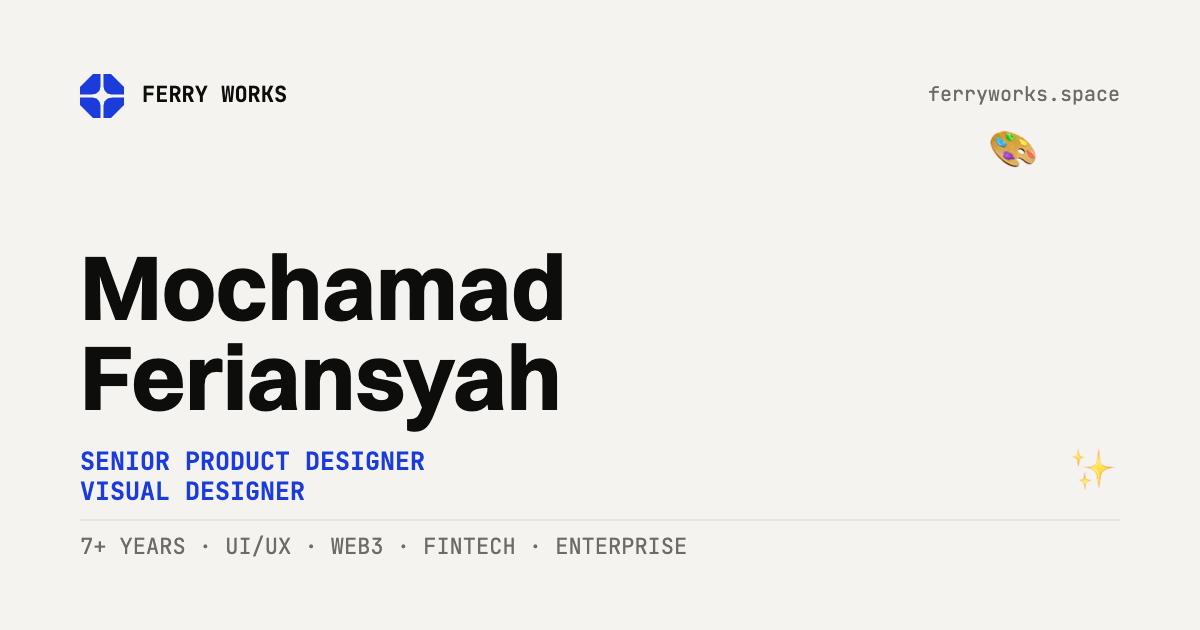
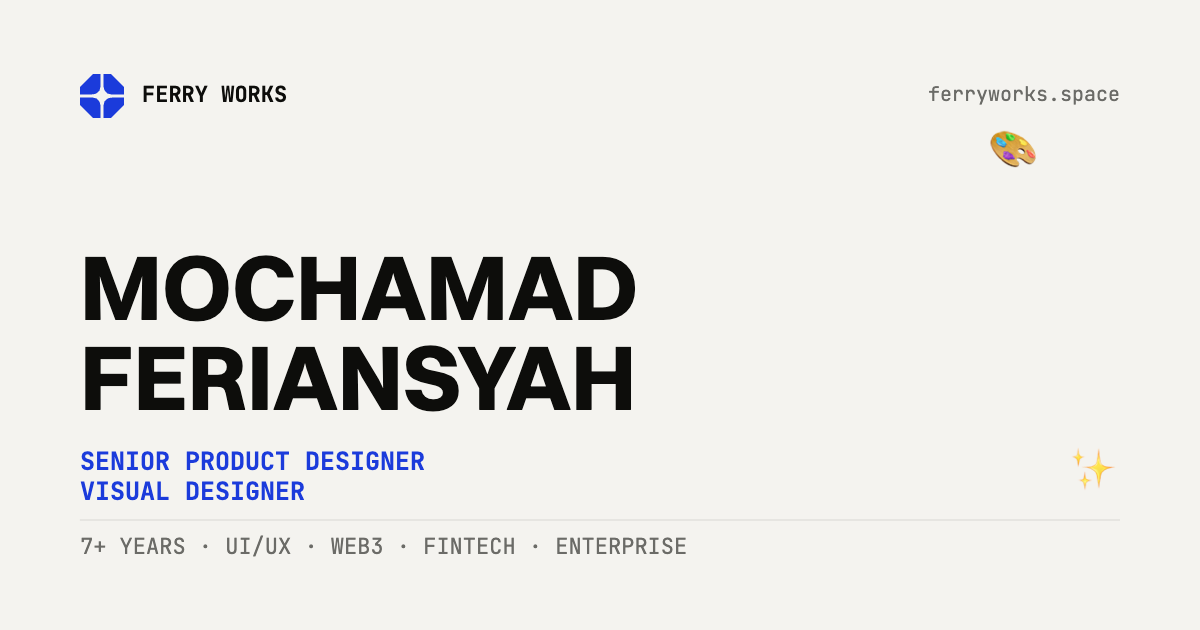
Fix 404 on Investment App Reimagined case study, caps OG headline
- New components/cases/InvestmentAppReimagined.tsx, registered in
  CASE_PAGES. content/*.json already had full data for this case
  and the static preview generator already worked, but no React
  component existed, so the Next.js route 404'd via the page's
  own notFound() guard. Modeled on NanovestInvestmentApp (identical
  data shape) with Amazon's flat gallery pattern (4 screens, no
  4+4 split).
- public/og-image.png: name headline set to all caps per request.

Changed region(s): [[0.0925, 0.5429, 0.5242, 0.6937], [0.1233, 0.3921, 0.555, 0.5127]]

diff --git a/components/cases/InvestmentAppReimagined.tsx b/components/cases/InvestmentAppReimagined.tsx
@@ -1,0 +1,309 @@
+import type { CSSProperties } from "react";
+import { Arrow } from "../Arrow";
+import { Words } from "../Words";
+import type { Cases } from "@/lib/dict";
+import type { CaseProps } from "./types";
+
+/**
+ * Case study: Investment App Reimagined (studi konsep, bukan klien).
+ *
+ * Susunan section-nya diturunkan dari NanovestInvestmentApp — bentuk
+ * data-nya identik persis — minus section "mockup" komposit, sama
+ * seperti Amazon: case ini cuma punya satu cover + empat tangkapan
+ * layar utuh, jadi galerinya satu grid rata (bukan split 4+4).
+ *
+ * Pasangannya di preview statis adalah
+ * scripts/case_investment_app_reimagined.py.
+ */
+
+function Media({
+  img,
+  ar,
+  alt = "",
+  eager = false,
+}: {
+  img: string;
+  ar: number;
+  alt?: string;
+  eager?: boolean;
+}) {
+  return (
+    <div className="case-media case-media--phone" style={{ "--ar": ar } as CSSProperties}>
+      <img src={img} alt={alt} loading={eager ? "eager" : "lazy"} decoding="async" />
+    </div>
+  );
+}
+
+function Figure({
+  img,
+  ar,
+  cap,
+  alt = "",
+  extra = "",
+  eager = false,
+}: {
+  img: string;
+  ar: number;
+  cap?: string;
+  alt?: string;
+  extra?: string;
+  eager?: boolean;
+}) {
+  return (
+    <figure className={`case-fig reveal ${extra}`.trim()}>
+      <Media img={img} ar={ar} alt={alt} eager={eager} />
+      {cap ? <figcaption className="t-meta case-cap">{cap}</figcaption> : null}
+    </figure>
+  );
+}
+
+export default function InvestmentAppReimagined({
+  dict,
+  lang,
+  data,
+}: CaseProps<Cases["investment-app-reimagined"]>) {
+  const home = `/${lang}`;
+
+  return (
+    <>
+      <section className="case-hero" id="top">
+        <div className="case-hero-deco" aria-hidden="true">
+          <div className="case-hero-deco-blob" />
+        </div>
+        <div className="case-hero-head reveal">
+          <div className="case-back">
+            <a className="pill t-eyebrow" href={`${home}#work`}>
+              {data.back}
+              <Arrow />
+            </a>
+            <span className="t-eyebrow case-eyebrow">{data.eyebrow}</span>
+          </div>
+          <h1 className="t-case-title case-title">
+            <Words text={data.title} />
+          </h1>
+          <p className="t-detail-b case-lead">{data.lead}</p>
+
+          {/* href kosong tidak dirender: tautan mati lebih buruk
+              daripada tautan yang belum ada. */}
+          {data.site.href ? (
+            <a
+              className="pill pill--lg t-eyebrow"
+              href={data.site.href}
+              target="_blank"
+              rel="noopener noreferrer"
+            >
+              {data.site.label}
+              <Arrow />
+            </a>
+          ) : null}
+        </div>
+
+        <dl className="case-facts reveal">
+          {data.facts.map((f) => (
+            <div className="case-fact" key={f.k}>
+              <dt className="t-eyebrow">{f.k}</dt>
+              <dd className="t-meta">{f.v}</dd>
+            </div>
+          ))}
+        </dl>
+
+        <Figure
+          img={data.cover.img}
+          ar={data.cover.ar}
+          cap={data.cover.caption}
+          alt={data.cover.alt}
+          extra="case-fig--shot"
+          eager
+        />
+      </section>
+
+      <section className="section section--divided tagline-section">
+        <div className="tagline-grid reveal" data-stagger="18">
+          <div>
+            <p className="t-label">{data.overview.label}</p>
+            <p className="t-meta" style={{ color: "var(--ink-muted)", marginTop: 8 }}>
+              {data.overview.meta}
+            </p>
+          </div>
+          <p className="t-tagline tagline">
+            <Words text={data.overview.text} />
+          </p>
+        </div>
+      </section>
+
+      <section className="section section--divided">
+        <div className="section-head reveal">
+          <h2 className="t-label">{data.scope.label}</h2>
+          <p className="t-meta">{data.scope.meta}</p>
+        </div>
+        <ol className="case-scope reveal">
+          {data.scope.items.map((s, i) => (
+            <li className="case-scope-item" key={s}>
+              <span className="case-scope-num t-eyebrow">
+                {String(i + 1).padStart(2, "0")}
+              </span>
+              <span className="case-scope-label">{s}</span>
+            </li>
+          ))}
+        </ol>
+      </section>
+
+      {data.blocks.map((b) => (
+        <section className="section section--divided" key={b.label}>
+          <div className="case-note reveal">
+            <div className="case-note-side">
+              <h2 className="t-label">{b.label}</h2>
+              <p className="t-meta" style={{ color: "var(--ink-muted)", marginTop: 8 }}>
+                {b.meta}
+              </p>
+            </div>
+            <div className="case-note-body">
+              <h3 className="t-detail-h case-note-h">{b.heading}</h3>
+              {b.body.map((p) => (
+                <p className="case-p" key={p.slice(0, 32)}>
+                  {p}
+                </p>
+              ))}
+            </div>
+          </div>
+        </section>
+      ))}
+
+      <section className="section section--divided">
+        <div className="section-head reveal">
+          <h2 className="t-label">{data.gallery.label}</h2>
+          <p className="t-meta">{data.gallery.meta}</p>
+        </div>
+        <div className="case-gallery case-gallery--phones">
+          {data.gallery.items.map((g) => (
+            <Figure key={g.img} img={g.img} ar={g.ar} cap={g.cap} alt={data.title} />
+          ))}
+        </div>
+      </section>
+
+      {/* Tidak ada rekaman untuk case ini, jadi section-nya dilewatkan
+          sama sekali daripada tampil sebagai placeholder kosong — sama
+          seperti case Amazon. Isi `video.src` di content/*.json begitu
+          rekamannya ada, section ini muncul kembali otomatis. */}
+      {data.video.src ? (
+        <section className="section section--divided case-video" aria-labelledby="case-video-label">
+          <div className="section-head reveal">
+            <h2 className="t-label" id="case-video-label">
+              {data.video.label}
+            </h2>
+            <p className="t-meta">{data.video.meta}</p>
+          </div>
+
+          <div
+            className="reel-wrap"
+            data-reel
+            data-dark
+            style={
+              { "--ar": data.video.ar, "--focus": data.video.posterFocus } as CSSProperties
+            }
+          >
+            <video
+              className="reel-media"
+              data-reel-media
+              data-src={data.video.src}
+              poster={data.video.poster}
+              muted
+              loop
+              playsInline
+              preload="none"
+            />
+
+            <div className="reel-overlay">
+              <span className="reel-tag t-eyebrow">{data.video.tag}</span>
+              <span className="reel-year t-eyebrow">{data.video.year}</span>
+            </div>
+
+            <button
+              className="reel-mute"
+              data-reel-mute
+              aria-pressed="false"
+              aria-label={dict.reel.unmute}
+            >
+              <svg viewBox="0 0 12 12" width="11" height="11" aria-hidden="true" fill="none">
+                <path d="M1 4.5h2L6 2v8L3 7.5H1z" stroke="currentColor" strokeWidth="1.1" />
+                <path
+                  d="M8.5 4.2 11 6.8M11 4.2 8.5 6.8"
+                  stroke="currentColor"
+                  strokeWidth="1.1"
+                />
+              </svg>
+            </button>
+          </div>
+
+          <p className="t-meta case-cap">{data.video.caption}</p>
+        </section>
+      ) : null}
+
+      {/* data-dark: nav membalik warnanya di atas section ini (§6.1) */}
+      <section className="section case-metrics grain" data-dark data-reveal>
+        <div className="section-head">
+          <h2 className="t-label">{data.metrics.label}</h2>
+          <p className="t-meta">{data.metrics.meta}</p>
+        </div>
+        <div className="case-metrics-row">
+          {data.metrics.items.map((m) => (
+            <div className="case-metric" key={m.k}>
+              <span className="case-metric-v">{m.v}</span>
+              <span className="case-metric-k t-meta">{m.k}</span>
+            </div>
+          ))}
+        </div>
+        <p className="t-meta case-metrics-note">{data.metrics.note}</p>
+      </section>
+
+      <section className="section section--divided">
+        <div className="section-head reveal">
+          <h2 className="t-label">{data.deliverables.label}</h2>
+          <p className="t-meta">{data.deliverables.meta}</p>
+        </div>
+        <ul className="service-tags case-deliverables reveal">
+          {data.deliverables.items.map((d) => (
+            <li key={d}>{d}</li>
+          ))}
+        </ul>
+      </section>
+
+      <section className="section case-next-section">
+        {/* Track diduplikasi PERSIS 2× lalu digeser -50%
+            (@keyframes heroMarquee) → loop mulus, nol JS. */}
+        <div className="case-marquee" aria-hidden="true">
+          <div className="case-marquee-track">
+            {[0, 1].map((set) => (
+              <div style={{ display: "flex" }} key={set}>
+                {[0, 1, 2, 3].map((i) => (
+                  <span className="case-marquee-word" key={i}>
+                    {data.marquee}
+                  </span>
+                ))}
+              </div>
+            ))}
+          </div>
+        </div>
+
+        <a
+          className="case-next reveal"
+          href={`${home}${data.next.href}`}
+          data-cursor="view"
+          data-cursor-label={dict.projects.label}
+        >
+          <span className="case-next-text">
+            <span className="case-next-label t-eyebrow">
+              {data.next.label}
+              <Arrow />
+            </span>
+            <span className="case-next-title t-service">{data.next.title}</span>
+            <span className="case-next-cat t-meta">{data.next.cat}</span>
+          </span>
+          <span className="case-next-media">
+            <img src={data.next.img} alt={data.next.title} loading="lazy" decoding="async" />
+          </span>
+        </a>
+      </section>
+    </>
+  );
+}

diff --git a/components/cases/index.ts b/components/cases/index.ts
@@ -7,6 +7,7 @@ import GameDeployer from "./GameDeployer";
 import GameInterfaceStudy from "./GameInterfaceStudy";
 import GameQuest from "./GameQuest";
 import HrisDashboard from "./HrisDashboard";
+import InvestmentAppReimagined from "./InvestmentAppReimagined";
 import NanovestAppRedesign from "./NanovestAppRedesign";
 import NanovestCalendar from "./NanovestCalendar";
 import NanovestForeignStocks from "./NanovestForeignStocks";
@@ -51,4 +52,5 @@ export const CASE_PAGES: Record<string, ComponentType<CaseProps<Case>>> = {
   "hris-dashboard": HrisDashboard as ComponentType<CaseProps<Case>>,
   "stiqy-dashboard": StiqyDashboard as ComponentType<CaseProps<Case>>,
   "game-deployer": GameDeployer as ComponentType<CaseProps<Case>>,
+  "investment-app-reimagined": InvestmentAppReimagined as ComponentType<CaseProps<Case>>,
 };

diff --git a/README.md b/README.md
@@ -1357,6 +1357,68 @@ sama sekali, murni penyesuaian data. Diverifikasi lewat DOM nyata
 (drawer desktop dan menu mobile dua-duanya tinggal 2 item) dan
 screenshot visual drawer dalam keadaan terbuka.
 
+### Nama di OG image jadi kapital semua
+
+Diminta setelah OG image pertama dikirim: nama "Mochamad Feriansyah"
+diganti jadi "MOCHAMAD FERIANSYAH". Render ulang lewat jalur yang
+sama (canvas 1200×630, `fillText` setelah `document.fonts.ready`) —
+dicek dulu `ctx.measureText()` untuk dua kata itu di Switzer bold
+92px (558px dan 556px) supaya tidak overflow dari gutter 80px kanan
+sebelum di-export, baru diganti `public/og-image.png`. Tidak ada
+perubahan di `app/layout.tsx`/`chrome.py`, keduanya cuma mereferensi
+file yang sama.
+
+### Halaman "Investment App Reimagined" 404 walau deploy sukses
+
+Dilaporkan: link case study ini di strip proyek 404 meskipun build
+Vercel hijau. Penyebabnya BUKAN masalah deploy — `content/*.json →
+cases.investment-app-reimagined` sudah lengkap (facts, blocks,
+gallery 4 layar, metrics, dst.) dan `scripts/
+case_investment_app_reimagined.py` (generator preview statis) sudah
+ada dan sudah pernah jalan, tapi `components/cases/` TIDAK PERNAH
+punya komponen React untuk case ini, dan karenanya juga tidak
+terdaftar di `CASE_PAGES` (`components/cases/index.ts`). Sisi
+Python/preview lengkap, sisi Next.js/React-nya belum pernah dibuat
+sama sekali — beda dari bug "Nanovest App Redesign" sebelumnya (itu
+komponennya sudah ada, cuma belum ditaut); di sini komponennya
+sungguhan tidak ada. `app/(site)/[lang]/work/[slug]/page.tsx`
+memang sengaja `notFound()` kalau salah satu dari data/komponen
+tidak ada (lihat komentarnya sendiri) — 404 di sini bukan bug pada
+routing-nya, tapi gejala yang jujur dari komponen yang memang belum
+dibuat.
+
+Dicari case lain dengan bentuk data JSON yang identik persis
+(`set(keys) == set(keys)`, bukan cuma mirip) untuk dipakai sebagai
+cetakan yang aman — `nanovest-investment-app` cocok 100%. Komponen
+baru `components/cases/InvestmentAppReimagined.tsx` disalin dari
+`NanovestInvestmentApp.tsx`, dengan satu perbedaan yang disengaja:
+section galeri diganti pakai pola grid rata (`Amazon.tsx`), bukan
+split 4+4 dengan divider, karena `case_investment_app_reimagined.py`
+sendiri sudah mendokumentasikan case ini cuma punya 4 tangkapan
+layar total (bukan 8) — kalau tetap pakai pola split, `.slice(4)`
+akan menghasilkan array kosong dan divider-nya nongol sendirian
+tanpa apa pun di bawahnya. Didaftarkan satu baris di `CASE_PAGES`.
+
+Catatan: case ini TIDAK ada di siklus "next case" manapun (tidak
+ada `cases.*.next` yang menunjuk ke sini) — bisa diakses langsung
+lewat strip proyek dan URL, tapi tidak akan pernah muncul kalau
+orang browsing dari "next case" ke "next case" di case study lain.
+Di luar cakupan perbaikan 404 ini (perbaikannya butuh mengubah satu
+mata rantai siklus 11-case yang sudah dikonfirmasi bekerja) — kabari
+kalau ingin ini juga disambungkan ke siklusnya.
+
+Diverifikasi lewat preview statis (data JSON yang sama dipakai
+komponen React ini): regenerate `case_investment_app_reimagined.py`
+nol error, galeri terkonfirmasi flat 4 item tanpa divider lewat DOM
+nyata, seluruh `<img>` (cover, galeri, next-case) fetch `200`, nol
+console error, dan link dari strip proyek homepage terkonfirmasi
+menunjuk ke halaman ini. Sisi Next.js/TypeScript tidak bisa
+dijalankan `tsc`/`next build` sungguhan di environment ini
+(`node`/`npm` tidak terpasang — limitasi yang sama seperti favicon)
+— komponen ditulis dengan menyalin pola JSX yang identik dari
+komponen yang sudah terbukti bekerja, bukan ditulis dari nol, untuk
+menjaga risiko itu serendah mungkin.
+
 ## Penyimpangan sadar dari spec
 
 | Spec | Di sini | Alasan |
